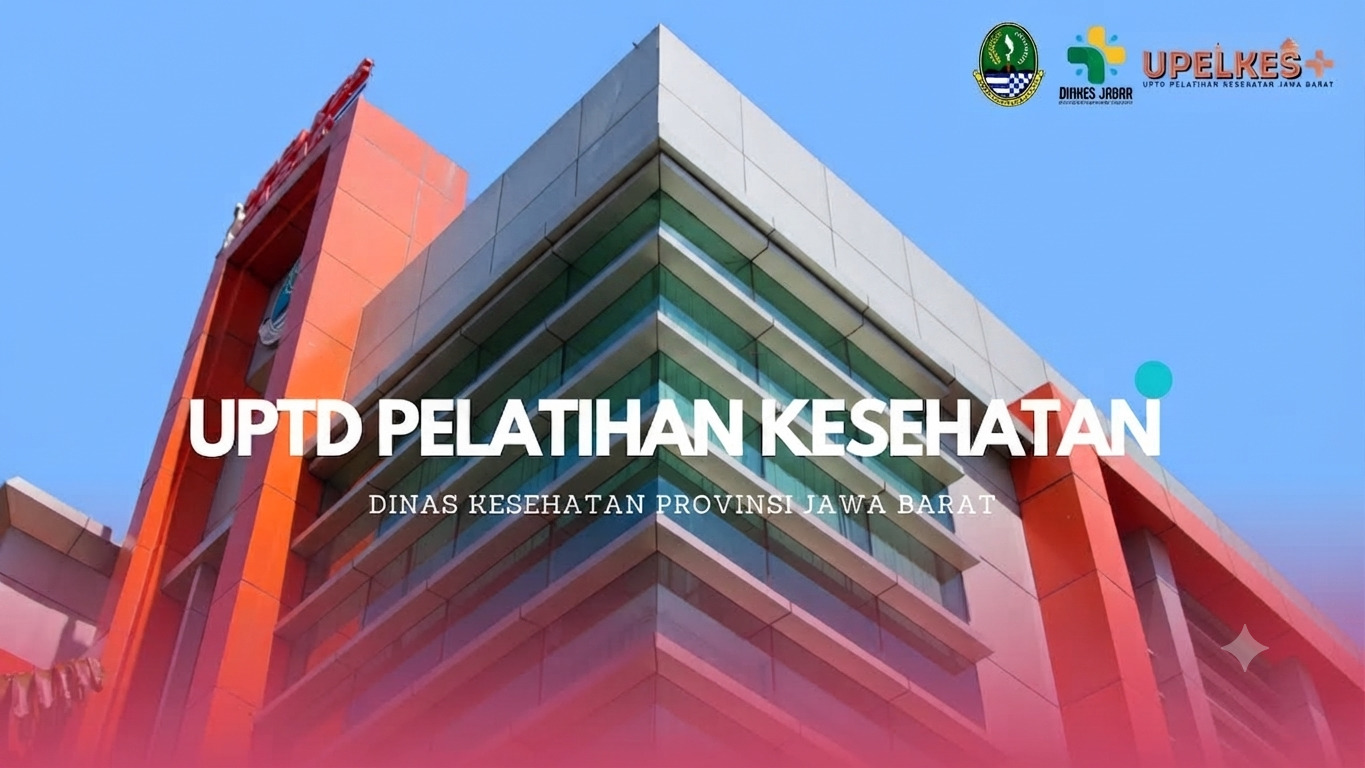
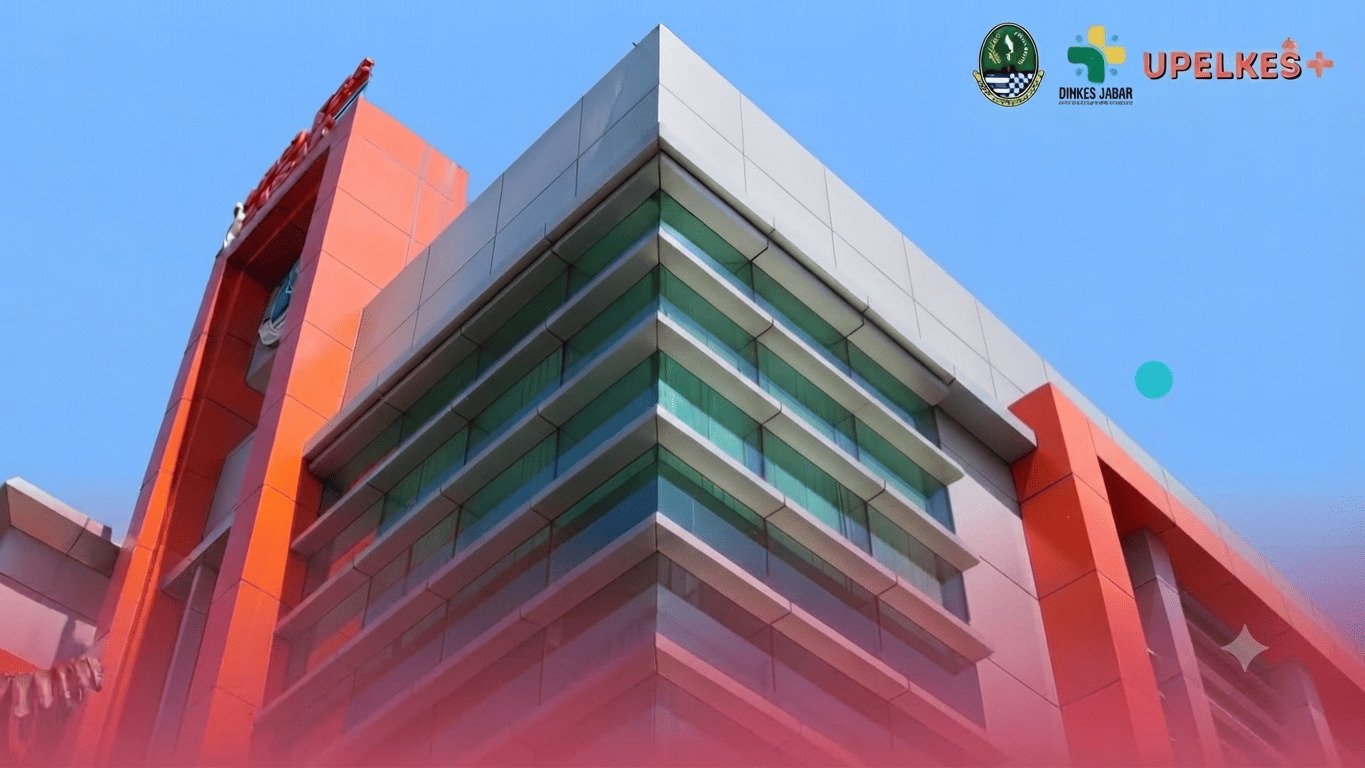
style: update hero section overlay and color adjustments

diff --git a/tailwind.config.js b/tailwind.config.js
@@ -10,19 +10,22 @@ export default {
     theme: {
         extend: {
             colors: {
-                navy: {
-                    DEFAULT: '#0B1F3D',
-                    light: '#12305C',
-                },
-                gold: {
-                    DEFAULT: '#B8912F',
-                    light: '#D9B65C',
-                },
-                health: {
-                    DEFAULT: '#1F7A4D',
-                    dark: '#155C39',
-                },
-            },
+    navy: {
+        DEFAULT: '#0B1F3D',
+        light: '#12305C',
+    },
+    gold: {
+        DEFAULT: '#B8912F',
+        light: '#D9B65C',
+    },
+    health: {
+        DEFAULT: '#1F7A4D',
+        dark: '#155C39',
+    },
+    orange: {
+        DEFAULT: '#FF7602',
+    },
+},
             fontFamily: {
                 sans: ['Inter', ...defaultTheme.fontFamily.sans],
                 display: ['Poppins', ...defaultTheme.fontFamily.sans],

diff --git a/resources/views/public/home.blade.php b/resources/views/public/home.blade.php
@@ -2,117 +2,142 @@
 @section('title', 'Beranda')
 @section('content')
 
-    {{-- HERO --}}
-    <section class="relative bg-navy text-white overflow-hidden">
-        <div class="absolute inset-0 bg-cover bg-center" style="background-image: url('{{ asset('images/uptd.jpg') }}');"></div>
-<div class="absolute inset-0 bg-navy/40 mix-blend-multiply"></div>
-<div class="absolute inset-0 bg-gradient-to-r from-navy via-navy/60 to-transparent"></div>
-<div class="absolute inset-0 bg-gradient-to-t from-navy/90 via-transparent to-navy/20"></div>
-        <div class="absolute -right-24 -top-24 w-96 h-96 rounded-full bg-health/20 blur-3xl"></div>
-        <div class="absolute -left-24 bottom-0 w-72 h-72 rounded-full bg-gold/10 blur-3xl"></div>
+  {{-- HERO --}}
+    <section class="relative bg-white overflow-hidden">
+       <div class="absolute inset-0 bg-cover bg-center opacity-[0.35]" style="background-image: url('{{ asset('images/uptd2.jpg') }}');"></div>
+       <div class="absolute inset-0 bg-navy/80 mix-blend-multiply"></div>
+       <div class="absolute inset-0 bg-gradient-to-b from-white/10 via-transparent to-white"></div>
 
-        <div class="relative max-w-6xl mx-auto px-6 py-24">
-            <p class="inline-block text-xs font-semibold tracking-wider text-gold-light uppercase border border-gold-light/40 rounded-full px-3 py-1 mb-5 animate-fade-up">
-                Program Magang Resmi
+        <div class="relative z-10 max-w-5xl mx-auto px-6 pt-16 pb-10 text-center">
+            <p class="inline-flex items-center gap-1.5 text-xs font-semibold tracking-[0.2em] text-health uppercase mb-4 bg-white/80 backdrop-blur-sm px-3 py-1.5 rounded-full shadow-sm">
+                <span class="w-1.5 h-1.5 rounded-full bg-health"></span> Program Magang Resmi
             </p>
-            <h1 class="font-display font-extrabold text-4xl md:text-5xl leading-tight max-w-2xl animate-fade-up delay-1">
-                Mulai Langkah <span class="text-gradient-animated">Profesionalmu</span> di Dunia Kesehatan
+           <h1 class="font-display font-extrabold text-3xl md:text-5xl leading-tight text-white drop-shadow-sm">
+             Mulai Langkah <span class="text-gradient-animated">Profesionalmu</span> di Dunia Kesehatan
             </h1>
-            <p class="mt-5 text-gray-300 text-base leading-relaxed max-w-xl animate-fade-up delay-2">
-                Ajukan magang di UPTD Pelatihan Kesehatan Dinas Kesehatan Provinsi Jawa Barat
-                secara online. Cukup isi formulir dan unggah dokumen, tanpa perlu datang langsung.
+
+            <div class="flex flex-wrap justify-center gap-x-4 gap-y-3 mt-8">
+                <div class="flex items-center gap-3 text-left bg-white/85 backdrop-blur-sm px-4 py-2.5 rounded-xl shadow-sm">
+                    <span class="w-9 h-9 shrink-0 rounded-full bg-health/10 flex items-center justify-center text-health">
+                        <svg xmlns="http://www.w3.org/2000/svg" class="w-5 h-5" fill="none" viewBox="0 0 24 24" stroke="currentColor" stroke-width="2">
+                            <path stroke-linecap="round" stroke-linejoin="round" d="M5 13l4 4L19 7" />
+                        </svg>
+                    </span>
+                    <p class="text-sm text-gray-700 leading-snug">
+                        Proses pengajuan<br class="hidden sm:block"> 100% online
+                    </p>
+                </div>
+                <div class="flex items-center gap-3 text-left bg-white/85 backdrop-blur-sm px-4 py-2.5 rounded-xl shadow-sm">
+                    <span class="w-9 h-9 shrink-0 rounded-full bg-gold/10 flex items-center justify-center text-gold">
+                        <svg xmlns="http://www.w3.org/2000/svg" class="w-5 h-5" fill="none" viewBox="0 0 24 24" stroke="currentColor" stroke-width="2">
+                            <path stroke-linecap="round" stroke-linejoin="round" d="M9 12l2 2 4-4m6 2a9 9 0 11-18 0 9 9 0 0118 0z" />
+                        </svg>
+                    </span>
+                    <p class="text-sm text-gray-700 leading-snug">
+                        Instansi resmi Dinas<br class="hidden sm:block"> Kesehatan Jawa Barat
+                    </p>
+                </div>
+            </div>
+        </div>
+
+        {{-- BANNER FOTO --}}
+        <div class="relative z-10 max-w-5xl mx-auto px-6 pb-14">
+            <div class="relative rounded-2xl overflow-hidden shadow-lg">
+                <div class="absolute inset-0 bg-cover bg-center" style="background-image: url('{{ asset('images/uptd.jpg') }}');"></div>
+                <div class="absolute inset-0 bg-navy/30 mix-blend-multiply"></div>
+                <div class="absolute inset-0 bg-gradient-to-t from-navy via-navy/40 to-transparent"></div>
+
+                <div class="relative px-6 md:px-10 py-12 md:py-16">
+                    <div class="flex items-center gap-3 mb-8">
+                        <img src="{{ asset('images/logo.jpg') }}" alt="Logo UPTD" class="w-10 h-10 rounded-full object-cover ring-2 ring-gold-light/60">
+                        <span class="font-display font-bold text-white tracking-wide">UPELKES</span>
+                    </div>
+
+                    <h2 class="font-display font-bold text-2xl md:text-3xl text-white leading-snug max-w-md">
+                        Selamat Datang<br>
+                        di <span class="text-orange">UPTD Pelatihan Kesehatan</span>
+                    </h2>
+
+                    <div class="mt-8 flex flex-wrap gap-3">
+                        <a href="{{ route('pengajuan.create') }}"
+                           class="bg-health hover:bg-health-dark transition text-white font-semibold px-6 py-3 rounded-md text-sm">
+                            Ajukan Magang Sekarang
+                        </a>
+                        <a href="{{ route('cek-status') }}"
+                           class="border border-white/40 hover:bg-white/10 transition font-semibold px-6 py-3 rounded-md text-sm text-white">
+                            Cek Status Pengajuan
+                        </a>
+                    </div>
+                </div>
+            </div>
+
+            <div class="flex justify-center gap-10 mt-8">
+                <div class="text-center">
+                    <p class="font-display font-extrabold text-2xl text-navy">100%</p>
+                    <p class="text-xs text-gray-500 mt-1">Proses Online</p>
+                </div>
+                <div class="text-center">
+                    <p class="font-display font-extrabold text-2xl text-navy">6</p>
+                    <p class="text-xs text-gray-500 mt-1">Bidang Tersedia</p>
+                </div>
+                <div class="text-center">
+                    <p class="font-display font-extrabold text-2xl text-navy">24/7</p>
+                    <p class="text-xs text-gray-500 mt-1">Cek Status</p>
+                </div>
+            </div>
+        </div>
+    </section>
+
+{{-- TAHAPAN --}}
+    <section class="max-w-6xl mx-auto px-6 pt-12 pb-24">
+        <div class="text-center max-w-xl mx-auto mb-14">
+            <p class="text-xs font-semibold tracking-[0.2em] text-health uppercase mb-2">Tahapan</p>
+            <h2 class="font-display font-bold text-2xl md:text-3xl text-navy mb-3">
+                Tahapan Mengikuti Program Magang
+            </h2>
+            <p class="text-gray-500 text-sm">
+                Ikuti empat langkah berikut untuk menyelesaikan proses pengajuan magangmu.
             </p>
-            <div class="mt-8 flex flex-wrap gap-3 animate-fade-up delay-3">
-                <a href="{{ route('pengajuan.create') }}"
-                   class="bg-health hover:bg-health-dark transition text-white font-semibold px-6 py-3 rounded-md">
-                    Ajukan Magang Sekarang
-                </a>
-                <a href="{{ route('cek-status') }}"
-                   class="border border-white/30 hover:bg-white/10 transition font-semibold px-6 py-3 rounded-md">
-                    Cek Status Pengajuan
-                </a>
+        </div>
+
+        <div class="relative grid sm:grid-cols-2 lg:grid-cols-4 gap-6">
+            {{-- garis penghubung, cuma muncul di layar besar --}}
+            <div class="hidden lg:block absolute top-9 left-[12.5%] right-[12.5%] h-px bg-gradient-to-r from-navy via-health to-gold"></div>
+
+            <div class="relative bg-white rounded-2xl border border-gray-100 shadow-sm hover:shadow-lg hover:-translate-y-1 transition-all p-6">
+                <div class="w-11 h-11 rounded-xl bg-navy text-white font-display font-bold flex items-center justify-center mb-5 shadow-md shadow-navy/20 relative z-10">
+                    1
+                </div>
+                <p class="font-display font-semibold text-navy text-sm mb-2">Pendaftaran</p>
+                <p class="text-xs text-gray-500 leading-relaxed">Isi formulir pengajuan magang secara online, tanpa perlu datang langsung.</p>
             </div>
 
-            <div class="mt-14 flex gap-10 animate-fade-up delay-3">
-                <div>
-                    <p class="font-display font-extrabold text-3xl text-gold-light">100%</p>
-                    <p class="text-sm text-gray-300 mt-1">Proses Online</p>
+            <div class="relative bg-white rounded-2xl border border-gray-100 shadow-sm hover:shadow-lg hover:-translate-y-1 transition-all p-6">
+                <div class="w-11 h-11 rounded-xl bg-health text-white font-display font-bold flex items-center justify-center mb-5 shadow-md shadow-health/20 relative z-10">
+                    2
                 </div>
-                <div>
-                    <p class="font-display font-extrabold text-3xl text-gold-light">6</p>
-                    <p class="text-sm text-gray-300 mt-1">Bidang Magang Tersedia</p>
+                <p class="font-display font-semibold text-navy text-sm mb-2">Unggah Dokumen</p>
+                <p class="text-xs text-gray-500 leading-relaxed">Lampirkan surat pengantar kampus, pas foto, dan dokumen pendukung lain.</p>
+            </div>
+
+            <div class="relative bg-white rounded-2xl border border-gray-100 shadow-sm hover:shadow-lg hover:-translate-y-1 transition-all p-6">
+                <div class="w-11 h-11 rounded-xl bg-gold text-navy font-display font-bold flex items-center justify-center mb-5 shadow-md shadow-gold/30 relative z-10">
+                    3
                 </div>
-                <div>
-                    <p class="font-display font-extrabold text-3xl text-gold-light">24/7</p>
-                    <p class="text-sm text-gray-300 mt-1">Cek Status Kapan Saja</p>
+                <p class="font-display font-semibold text-navy text-sm mb-2">Verifikasi</p>
+                <p class="text-xs text-gray-500 leading-relaxed">Pengajuan diperiksa oleh admin UPTD Pelatihan Kesehatan.</p>
+            </div>
+
+            <div class="relative bg-white rounded-2xl border border-gray-100 shadow-sm hover:shadow-lg hover:-translate-y-1 transition-all p-6">
+                <div class="w-11 h-11 rounded-xl bg-navy text-white font-display font-bold flex items-center justify-center mb-5 shadow-md shadow-navy/20 relative z-10">
+                    4
                 </div>
+                <p class="font-display font-semibold text-navy text-sm mb-2">Cek Status</p>
+                <p class="text-xs text-gray-500 leading-relaxed">Pantau hasil pengajuan kapan saja lewat menu Cek Status.</p>
             </div>
         </div>
     </section>
-
-    {{-- TAHAPAN --}}
-    <section class="max-w-6xl mx-auto px-6 py-24">
-        <div class="grid md:grid-cols-2 gap-14 items-center">
-
-            {{-- ILUSTRASI --}}
-            <div class="relative flex items-center justify-center">
-                <div class="absolute w-64 h-64 rounded-full bg-health/5 border border-health/10"></div>
-                <div class="absolute w-44 h-44 rounded-full bg-gold/5 border border-gold/10 -translate-x-10 translate-y-8"></div>
-
-                <svg viewBox="0 0 240 240" class="relative w-64 h-64 animate-float">
-                    <rect x="60" y="30" width="120" height="160" rx="14" fill="white" stroke="#0B1F3D" stroke-width="3"/>
-                    <line x1="82" y1="66" x2="158" y2="66" stroke="#B8912F" stroke-width="4" stroke-linecap="round"/>
-                    <line x1="82" y1="88" x2="158" y2="88" stroke="#E5E7EB" stroke-width="4" stroke-linecap="round"/>
-                    <line x1="82" y1="108" x2="140" y2="108" stroke="#E5E7EB" stroke-width="4" stroke-linecap="round"/>
-                    <circle cx="170" cy="150" r="34" fill="#1F7A4D"/>
-                    <path d="M156 150l10 10 20-20" stroke="white" stroke-width="5" fill="none" stroke-linecap="round" stroke-linejoin="round"/>
-                </svg>
-            </div>
-
-            {{-- KONTEN TAHAPAN --}}
-            <div>
-                <p class="text-xs font-semibold tracking-[0.2em] text-health uppercase mb-2">Tahapan</p>
-                <h2 class="font-display font-bold text-2xl md:text-3xl text-navy mb-3">
-                    Tahapan Mengikuti Program Magang
-                </h2>
-                <p class="text-gray-500 text-sm mb-8 max-w-md">
-                    Ikuti empat langkah berikut untuk menyelesaikan proses pengajuan magangmu.
-                </p>
-
-                <div class="grid sm:grid-cols-2 gap-6">
-                    <div class="flex gap-3">
-                        <span class="w-8 h-8 shrink-0 rounded-lg bg-navy text-white text-sm font-display font-bold flex items-center justify-center">1</span>
-                        <div>
-                            <p class="font-display font-semibold text-navy text-sm mb-1">Pendaftaran</p>
-                            <p class="text-xs text-gray-500 leading-relaxed">Isi formulir pengajuan magang secara online.</p>
-                        </div>
-                    </div>
-                    <div class="flex gap-3">
-                        <span class="w-8 h-8 shrink-0 rounded-lg bg-health text-white text-sm font-display font-bold flex items-center justify-center">2</span>
-                        <div>
-                            <p class="font-display font-semibold text-navy text-sm mb-1">Unggah Dokumen</p>
-                            <p class="text-xs text-gray-500 leading-relaxed">Lampirkan surat pengantar kampus dalam format PDF.</p>
-                        </div>
-                    </div>
-                    <div class="flex gap-3">
-                        <span class="w-8 h-8 shrink-0 rounded-lg bg-gold text-navy text-sm font-display font-bold flex items-center justify-center">3</span>
-                        <div>
-                            <p class="font-display font-semibold text-navy text-sm mb-1">Verifikasi</p>
-                            <p class="text-xs text-gray-500 leading-relaxed">Pengajuan diperiksa oleh admin UPTD Pelatihan Kesehatan.</p>
-                        </div>
-                    </div>
-                    <div class="flex gap-3">
-                        <span class="w-8 h-8 shrink-0 rounded-lg bg-navy text-white text-sm font-display font-bold flex items-center justify-center">4</span>
-                        <div>
-                            <p class="font-display font-semibold text-navy text-sm mb-1">Cek Status</p>
-                            <p class="text-xs text-gray-500 leading-relaxed">Pantau hasil pengajuan kapan saja secara online.</p>
-                        </div>
-                    </div>
-                </div>
-            </div>
-        </div>
-    </section>
-
+    
    {{-- PERSYARATAN --}}
     <section class="max-w-6xl mx-auto px-6 pb-24">
         <div class="text-center max-w-xl mx-auto mb-14">
@@ -166,16 +191,5 @@
         </div>
     </section>
     
-    {{-- CTA BAWAH --}}
-    <section class="bg-health text-white">
-        <div class="max-w-6xl mx-auto px-6 py-14 text-center">
-            <h2 class="font-display font-bold text-2xl mb-3">Siap Mengajukan Magang?</h2>
-            <p class="text-white/90 mb-6">Prosesnya cepat, cukup 5-10 menit untuk mengisi formulir.</p>
-            <a href="{{ route('pengajuan.create') }}"
-               class="inline-block bg-white text-health font-semibold px-6 py-3 rounded-md hover:bg-gray-100 transition">
-                Ajukan Magang Sekarang
-            </a>
-        </div>
-    </section>
 
 @endsection
